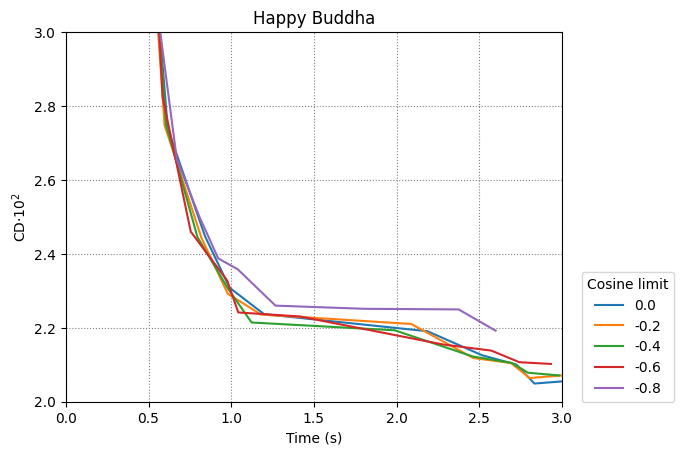
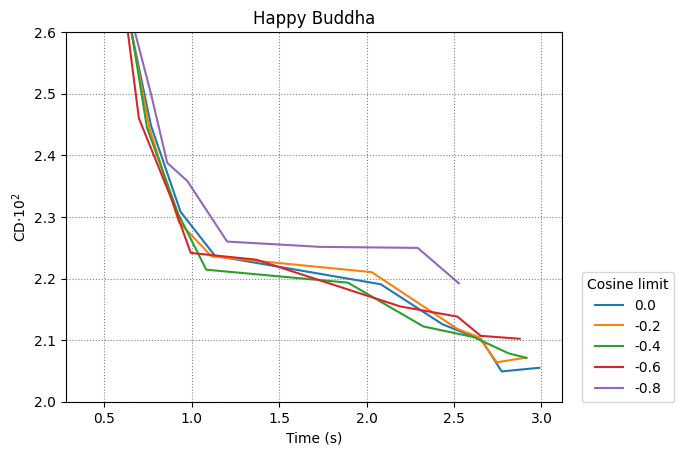
filter combined

diff --git a/ray_field/angle_filter.py b/ray_field/angle_filter.py
@@ -400,8 +400,6 @@ class AngleFilter(Algorithm):
                     M = M_values[j]
                     print(f'N: {N}\tM: {M}')
 
-                    local_times = np.zeros(AngleFilter.time_samples)
-
                     for k in range(AngleFilter.time_samples):
                         torch.cuda.synchronize()
                         start_time = timer()
@@ -419,13 +417,12 @@ class AngleFilter(Algorithm):
                         torch.cuda.synchronize()
                         time = timer() - start_time
 
-                        local_times[k] = time
+                        times[j][i] = times[j][i] + time
 
                         del origins, dirs, intersections, intersection_normals, is_intersecting, mesh
                         torch.cuda.empty_cache()
                         gc.collect()
                     
-                    times[j][i] = np.mean(local_times)
                     torch.cuda.empty_cache()
                     gc.collect()
                 
@@ -435,6 +432,8 @@ class AngleFilter(Algorithm):
         del model
         torch.cuda.empty_cache()
         gc.collect()
+
+        times = times / AngleFilter.time_samples
 
         return times, R_values
 

diff --git a/analysis/filter_combined.py b/analysis/filter_combined.py
@@ -72,8 +72,8 @@ def plot_results(M_values: list[float], times: list[list[float]], distances: lis
         ax.plot(times[i], distances[i], label=f'{M_values[i]:.1f}')
     
     ax.set_ylabel('CD$\\cdot10^2$')
-    ax.set_xlim([0, 3.5])
-    ax.set_ylim([1.5, 3.5])
+    #ax.set_xlim([0, 3.5])
+    ax.set_ylim([1.6, 2.2])
     ax.set_xlabel('Time (s)')
     ax.set_title(f'{model_name_dict[model_name]}')
     ax.legend(loc=(1.04, 0), title='Cosine limit')
